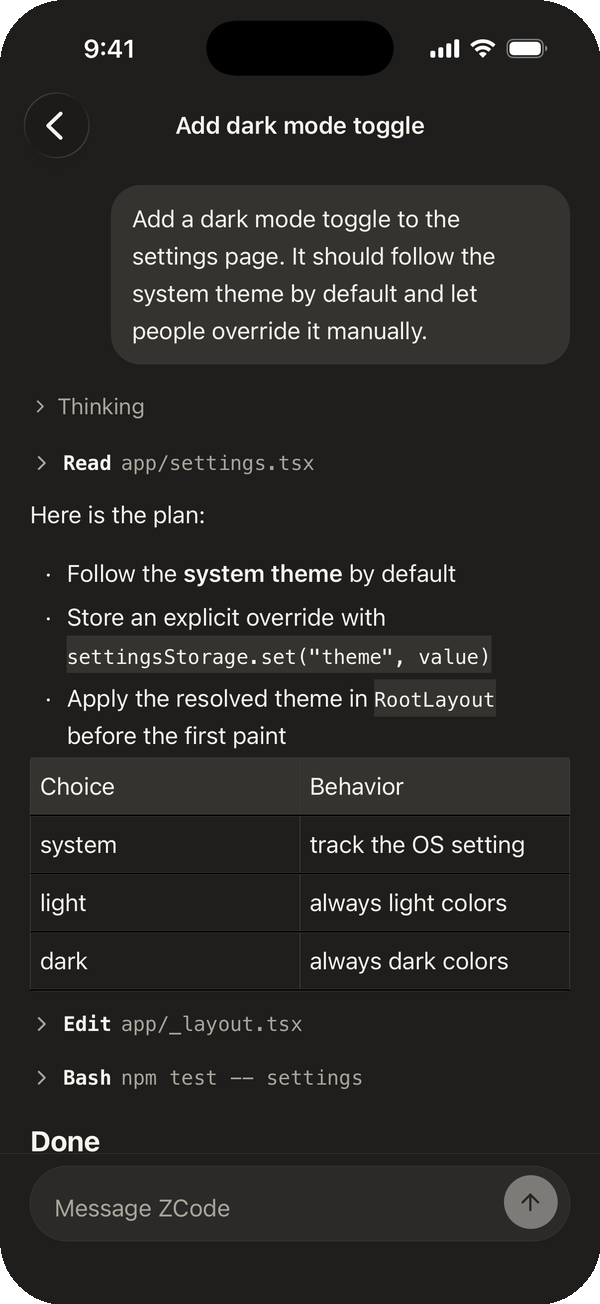
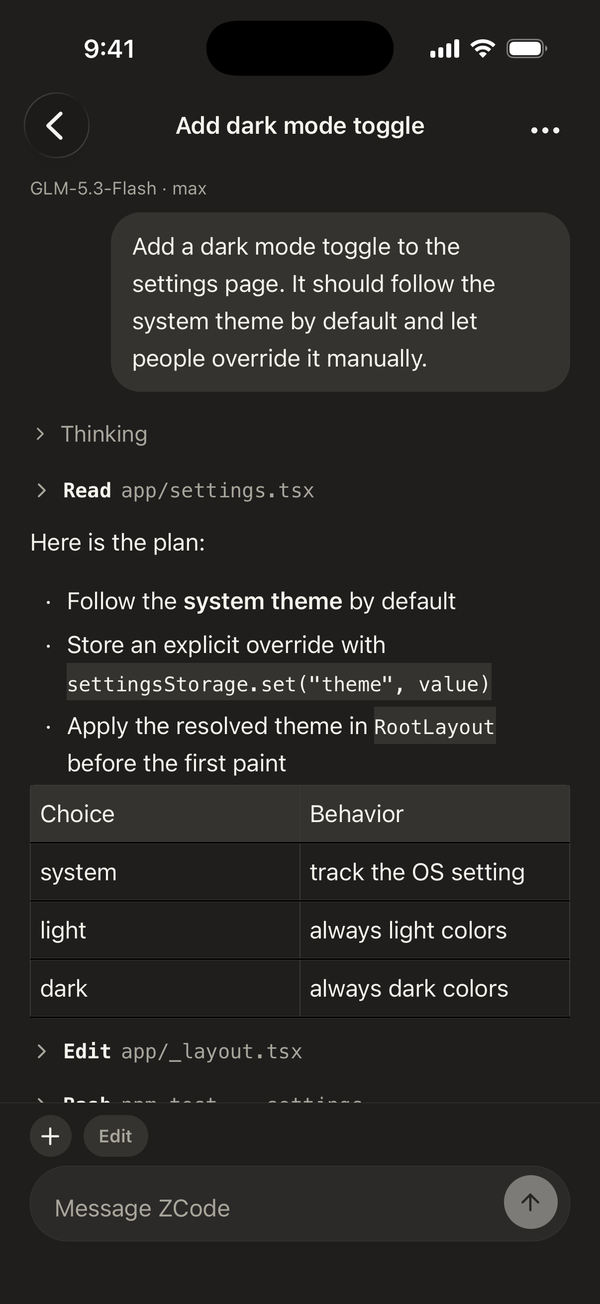
docs: README screenshots from the new app (home, chat, controls; light and dark)

diff --git a/README.md b/README.md
@@ -102,7 +102,7 @@ flowchart LR
   &nbsp;
   <img src="docs/images/chat.png" width="230" alt="Chat">
   &nbsp;
-  <img src="docs/images/approval.png" width="230" alt="Approval">
+  <img src="docs/images/controls.png" width="230" alt="Model, attachments and permission level">
 </p>
 
 - **Home:** one card per project with a status light. **Needs you** first, then **Running**, then history by day. Archive a conversation with a swipe. Finished `#` work orders are hidden until you turn them on.
